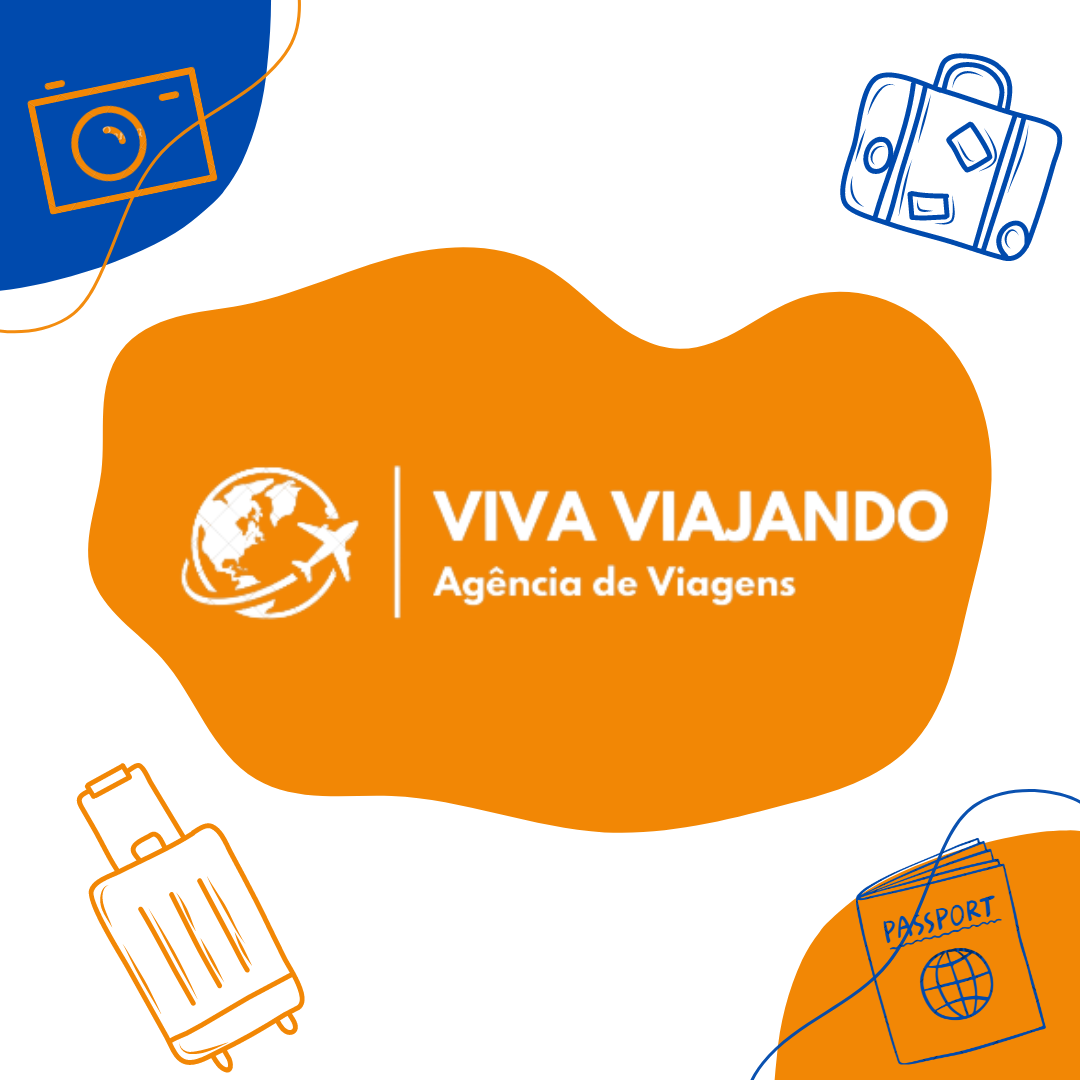
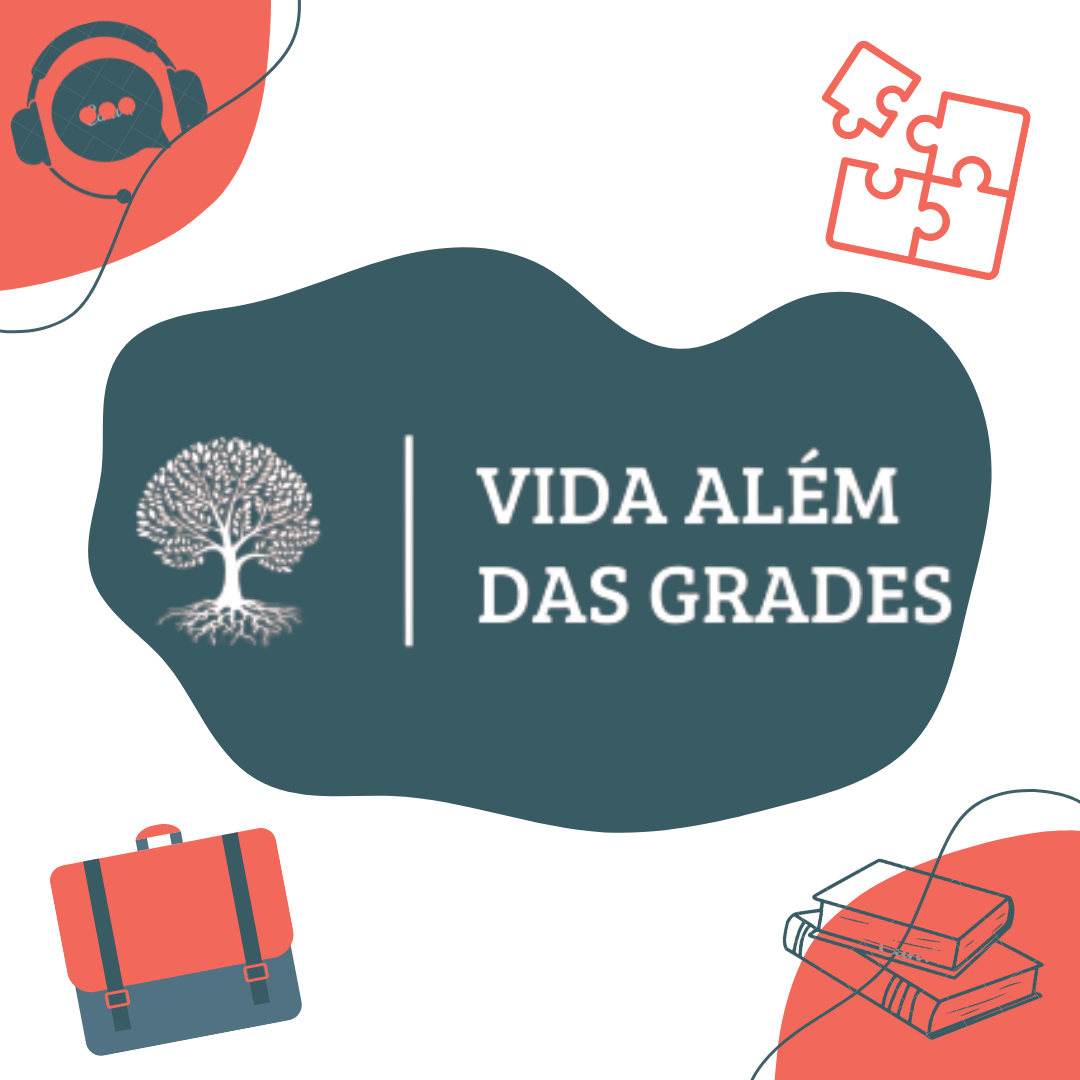
carrousel, imagens e tags

diff --git a/index.html b/index.html
@@ -50,7 +50,7 @@
       rel="canonical"
       href="https://getbootstrap.com/docs/5.3/examples/footers/"
     />
-    <title>Viva Viajando</title>
+    <title>Viva Além das Grades</title>
   </head>
   <body id="inicioSites" class="container bg-CD4F40">
     <header
@@ -90,18 +90,23 @@
                 >
               </li>
               <li class="nav-item">
-                <a class="nav-link text-bg-F8EDE5" href="#destinos"
-                  >Destinos</a
+                <a class="nav-link text-bg-F8EDE5" href="#projetos"
+                  >Projetos</a
                 >
               </li>
               <li class="nav-item">
-                <a class="nav-link text-bg-F8EDE5" href="#servicos"
-                  >Serviços</a
+                <a class="nav-link text-bg-F8EDE5" href="#empregos"
+                  >Empregos</a
                 >
               </li>
               <li class="nav-item">
-                <a class="nav-link text-bg-F8EDE5" href="#Depoimentos"
-                  >Depoimentos</a
+                <a class="nav-link text-bg-F8EDE5" href="#educacao"
+                  >Educação</a
+                >
+              </li>
+              <li class="nav-item">
+                <a class="nav-link text-bg-F8EDE5" href="contato.html"
+                  >Contato</a
                 >
               </li>
               <li class="nav-item">
@@ -111,12 +116,12 @@
               </li>
               <li class="nav-item">
                 <a class="nav-link text-bg-F8EDE5" href="contato.html"
-                  >Contato</a
+                  >FAQ</a
                 >
               </li>
               <li class="nav-item">
                 <a class="nav-link text-bg-F8EDE5" href="checkout.html"
-                  ><i class="bi bi-cart3"></i
+                  ><i class="bi bi-chat-heart"></i
                 ></a>
               </li>
             </ul>
@@ -207,10 +212,10 @@
         </button>
       </div>
     </header>
-    <hr class="featurette-divider" id="destinos" />
+    <hr class="featurette-divider" id="projetos" />
 
     <section class="container-fluid bg-CD4F40 text-center p-2 text-bg-62330F">
-      <h2>Conheça nossos destinos</h2>
+      <h2>Conheça os projetos</h2>
       <p>
         Descubra o mundo através;;;;; de nossos incríveis pacotes de viagem. Oferecemos experiências únicas para todos os viajantes, desde praias paradisíacas até cidades vibrantes e paisagens deslumbrantes. Nossa equipe está pronta para guiá-lo em cada etapa da jornada, tornando seus sonhos de viagem uma realidade. Explore destinos deslumbrantes, colecione momentos memoráveis e embarque em uma jornada inesquecível com a nossa agência de viagens. 
       </p>
@@ -390,9 +395,9 @@
         </div>
       </div>
     </section>
-    <hr class="featurette-divider" id="servicos" />
+    <hr class="featurette-divider" id="empregos" />
     <section class="container bg-CD4F40 text-center p-2">
-      <h2>Serviços</h2>
+      <h2>Empregos</h2>
       <br />
       <div class="row justify-content-center">
     <p>A área de serviços do nosso site oferece uma ampla variedade de opções para tornar sua viagem perfeita e sem preocupações. Desde reservas de hotéis e compra de passagens até pacotes turísticos personalizados, nossa agência oferece tudo o que você precisa para uma experiência de viagem inesquecível. Além disso, você pode contar com serviços adicionais, como aluguel de veículos, pacotes de lua de mel, guias turísticos e muito mais. Nossa equipe dedicada está pronta para atender a todas as suas necessidades e garantir que sua viagem seja segura, divertida e memorável.</p>
@@ -443,34 +448,33 @@
       </div>
     </section>
 
-    <hr class="featurette-divider" id="Depoimentos" />
+    <hr class="featurette-divider" id="educacao" />
     <section class="container-fluid bg-CD4F40 text-center p-2">
-      <h2>Depoimentos</h2>
-      <br /><br />
+      <h2>Educação</h2>
+    </div>
+    <p>Explore as áreas de interesse</p>
+  </div>
       <div class="card-group">
         <div class="card">
           <img src="img/depoimento/dep1.png" class="card-img-top" alt="...">
           <div class="card-body">
-            <h5 class="card-title text-bg-F28705">Marjorie Estiano</h5>
+            <h5 class="card-title text-bg-F28705">Tecnologia da Informação</h5>
             <p class="card-text" >"Minha experiência com a Viva Viajando foi simplesmente incrível! Viajar a trabalho pode ser desafiador, mas a agência cuidou de todos os detalhes meticulosamente. Desde o planejamento até a estadia, tudo foi perfeito. Fui recebida com um atendimento impecável e os pacotes personalizados superaram minhas expectativas. Com certeza, nas próximas viagens, contarei novamente com a expertise da Viva Viajando. Recomendo a todos que procuram uma agência confiável e comprometida em proporcionar a melhor experiência em suas jornadas." - Marjorie Estiano, 28 anos.</p>
           </div>
         </div>
         <div class="card">
           <img src="img/depoimento/dep2.png" class="card-img-top" alt="...">
           <div class="card-body">
-            <h5 class="card-title text-bg-F28705">Família Carter</h5>
+            <h5 class="card-title text-bg-F28705">Negócios e Inovação</h5>
             <p class="card-text">"Nossa família teve a viagem mais maravilhosa graças à Viva Viajando! Desde o momento em que entramos em contato, ficamos impressionados com a atenção aos detalhes e o foco na segurança. Durante as férias, pudemos aproveitar momentos especiais juntos, sabendo que tudo estava cuidadosamente planejado. As opções de diversão e aventura foram perfeitas para nossos filhos, que se divertiram muito. Agradecemos imensamente à equipe da Viva Viajando por tornar nossas férias inesquecíveis. Com certeza, voltaremos para mais aventuras em breve!" - Família Carter.</p>
           </div>
         </div>
         <div class="card">
           <img src="img/depoimento/dep3.png" class="card-img-top" alt="...">
           <div class="card-body">
-            <h5 class="card-title text-bg-F28705">Ravena e Lupin</h5>
+            <h5 class="card-title text-bg-F28705">Programação</h5>
             <p class="card-text">"Nossa lua de mel foi simplesmente perfeita, e tudo isso graças à Viva Viajando! Desde o primeiro contato, sentimos que nossa viagem estava em boas mãos. A equipe foi extremamente atenciosa e compreendeu exatamente o que buscávamos: um ambiente calmo e aconchegante para celebrar nosso amor. Os destinos selecionados foram exatamente como sonhávamos, e cada detalhe foi pensado para tornar nossa experiência única e memorável. Agradecemos à Viva Viajando por tornar esse momento tão especial e inesquecível para nós. Sem dúvidas, recomendaremos a agência para todos os nossos amigos!" - Casal Ravena e Lupin.</p>
           </div>
-        </div>
-        <p>Descubra mais depoimentos incríveis como esse em nossa página do Instagram @VivaViajando. Compartilhamos histórias emocionantes de clientes satisfeitos que vivenciaram experiências inesquecíveis em suas viagens. Siga-nos para se inspirar e começar a planejar sua próxima aventura conosco! #VivaViajando #Depoimentos #ExperiênciasÚnicas</p>
-      </div>
     </section>
     <div class="container">
       <footer

diff --git a/CSS/estilo.css b/CSS/estilo.css
@@ -13,7 +13,7 @@
 }
 /*Cor Background adicionar ao carrinho*/
 .bg-62330F{
-    background-color: #325259 !important;
+    background-color: #385B64 !important;
 }
 
 .logo img{
@@ -32,14 +32,14 @@ h1{
     text-align: center;
     border-radius: 5px;
     background-color: #F2695C;
-    color: #325259;
+    color: #385B64;
     text-transform: capitalize;
     font-style: Tahoma;
 }
 
 h2{
     font-size: 54px;
-    color: #325259;
+    color: #385B64;
     padding: 0%;
     font-weight: 600;
     font-style: Arial;
@@ -51,7 +51,7 @@ h2{
     color: #F2695C !important;
 }
 .text-bg-62330F{
-    color: #325259 !important;
+    color: #385B64 !important;
 }
 
 .text-bg-F8EDE5{
@@ -60,7 +60,7 @@ h2{
 
 a{text-decoration: none;
     background-color: #F2695C;
-    color: #325259;
+    color: #385B64;
     border-radius: 100px;
     padding:5px 20px;
     transition-duration: 1;
@@ -82,7 +82,7 @@ table td, table th{
 }
 
 table tr:nth-child(even){
-    background-color: #325259;
+    background-color: #385B64;
     text-align: center;
     color: white;
 }
@@ -90,12 +90,12 @@ table tr:nth-child(even){
 table tr:nth-child(odd){
     background-color: #F2695C;
     text-align: center;
-    color: #325259;
+    color: #385B64;
     
 }
 
 table thead th{
-    background-color: #325259;
+    background-color: #385B64;
     color: white;
 }
 
@@ -121,7 +121,7 @@ table thead th{
 
   @media (max-width: 992px){
     .nav-link{
-      border-bottom:solid 1px #325259;
+      border-bottom:solid 1px #385B64;
       border-radius: 0;
     }
   }
@@ -134,9 +134,9 @@ table thead th{
     color: #F2695C;
   }
   p{
-    color: #325259;
+    color: #385B64;
   }
   .navbar-toggler {
     border: var(--bs-border-width) solid ;
-    color:#325259
+    color:#385B64
   }

diff --git a/quemsomos.html b/quemsomos.html
@@ -90,13 +90,13 @@
                 >
               </li>
               <li class="nav-item">
-                <a class="nav-link text-bg-F8EDE5" href="index.html#destinos"
-                  >Destinos</a
+                <a class="nav-link text-bg-F8EDE5" href="index.html#projetos"
+                  >Projetos</a
                 >
               </li>
               <li class="nav-item">
-                <a class="nav-link text-bg-F8EDE5" href="index.html#servicos"
-                  >Serviços</a
+                <a class="nav-link text-bg-F8EDE5" href="index.html#empregos"
+                  >Empregos</a
                 >
               </li>
               <li class="nav-item">

diff --git a/checkout.html b/checkout.html
@@ -90,8 +90,8 @@
                 >
               </li>
               <li class="nav-item">
-                <a class="nav-link text-bg-F8EDE5" href="index.html#destinos"
-                  >Destinos</a
+                <a class="nav-link text-bg-F8EDE5" href="index.html#empregos"
+                  >Empregos</a
                 >
               </li>
               <li class="nav-item">
